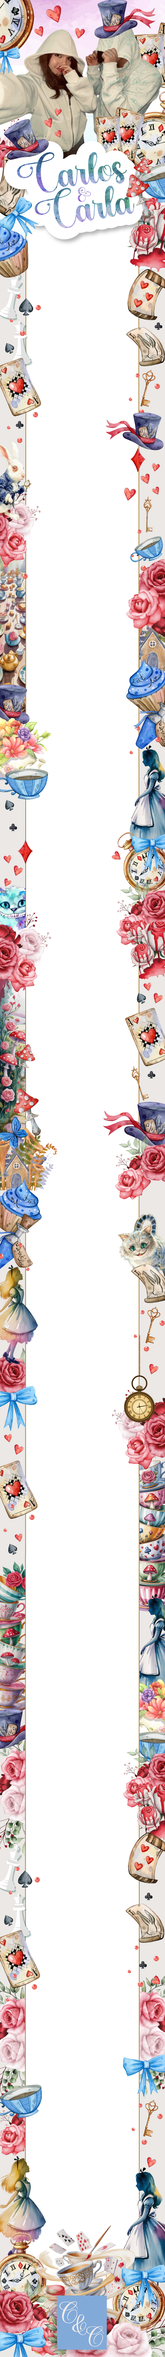
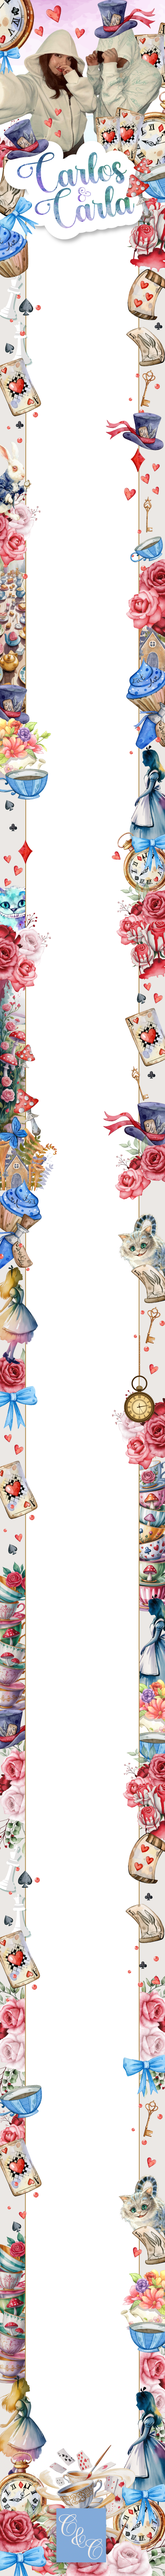
GABY

diff --git a/invi_feb_06/invitacion_xv/carloy_y_carla/invitacion.html b/invi_feb_06/invitacion_xv/carloy_y_carla/invitacion.html
@@ -33,11 +33,11 @@
        .background {
         background-image: url('img/fondo.png'); /* Ruta de tu imagen */
         background-repeat: no-repeat; /* Evita que se repita */
-        background-size: 450px 6402px; /* Tamaño exacto */
+        background-size: 450px 7373px; /* Tamaño exacto */
         background-position: top center; /* Centrado en la parte superior */
         width: 100%; /* Ancho fijo */
 		max-width: 450px; /* Ancho máximo */
-        min-height: 6402px; /* Altura exacta */
+        min-height: 7373px; /* Altura exacta */
         margin: 0 auto;
         animation: slideIn 1.5s ease-out;
 		position: relative;
@@ -1234,6 +1234,18 @@ Vals: 21:00 pm</p>
 			
 			 <!-- seccion pinterest  y hastag-->
 			<section class="social-section">
+				
+				<div class="social-item">
+        <div class="social-icon social-icon-camera"></div>
+        <h2 class="social-title">Captura cada instante</h2>
+        <p class="social-content">y compártelo con el hashtag:</p>
+        <p class="hashtag">#XVCalosCarla</p>
+		<p class="social-content">También puedes etiquetar a nuestros<br>festejados en IG con su username</p>
+					<p class="social-content instagram"><a href="https://www.instagram.com/carl.ith/" class="enlace-instagram">Carla: 
+@carl.ith</a></p>
+		<p class="social-content instagram"><a href="https://www.instagram.com/ca.xel_/" class="enlace-instagram">Carlos: 
+@ca.xel_</a></p>
+    </div>
                 <div class="social-item">
         <div align="center"><img src="img/galeria/2.jpeg" style="border-radius: 15px" width="100%"></div>
         
@@ -1242,6 +1254,18 @@ Vals: 21:00 pm</p>
             <button id="openGalleryBtn" class="gallery-button">Ver Galería</button>
         </div>
     </div>
+				
+				 <!-- Lluvia de sobres -->
+                        <div class="timeline-item">
+                            <img class="gift-logo" src="img/icon-gift-2.png" alt="sobre">
+                            <p class="final-content" style="margin-top:6px;">
+								Tu presencia para nosotros es lo más importante
+ pero si deseas<br>
+ obsequiarnos
+ algo, puedes acompañarnos con lluvia de sobres en físico el día del evento.
+                            </p>
+                        </div>
+
 				
 				 
 </section>
